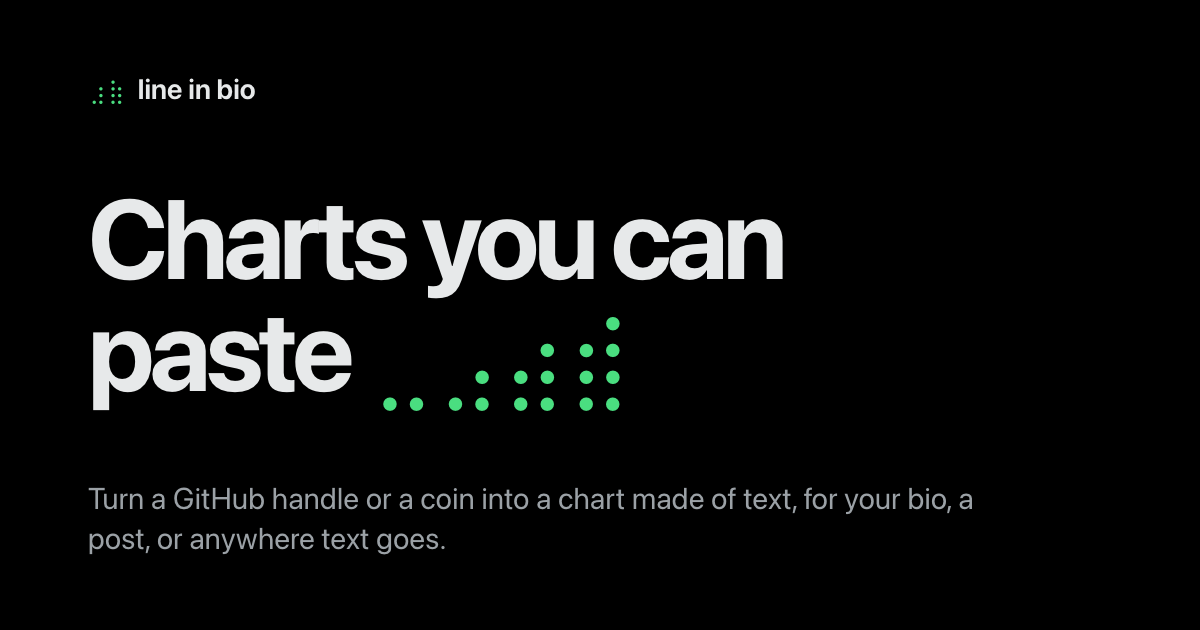
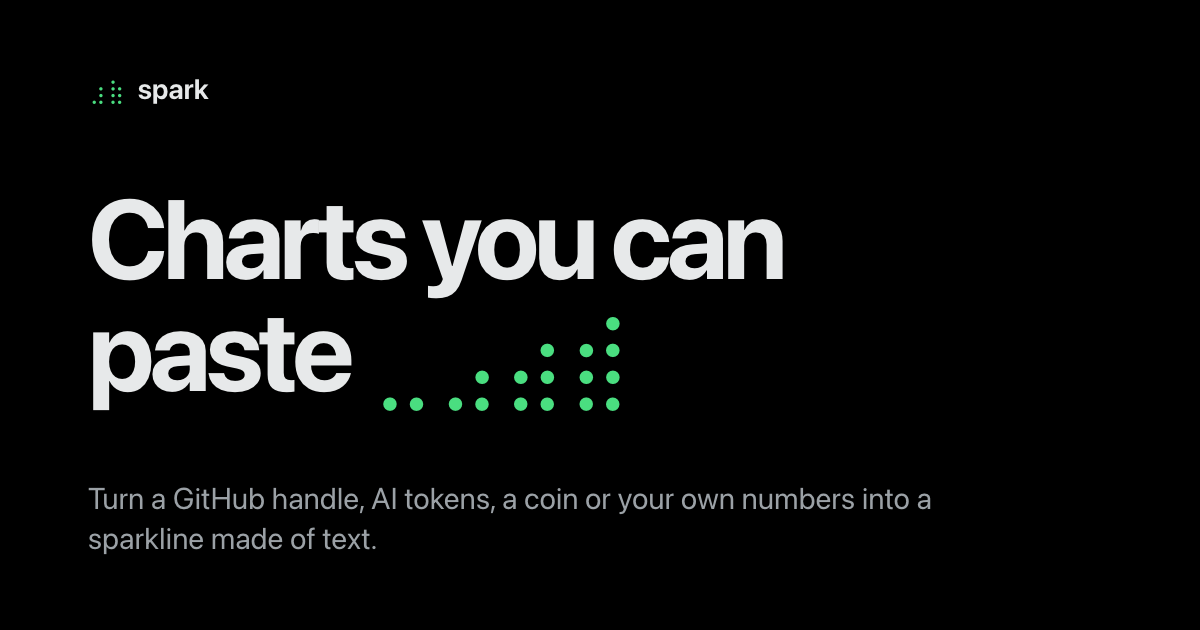
Rename the site to spark
It lives at spark.rhps.fun and makes sparklines; "line in bio" undersold it
once it covered posts, tokens and your own numbers. The repo keeps its name.

Claude-Session: https://claude.ai/code/session_01Aj4DdMT4MdrASdg4yyds1C

Changed region(s): [[0.3083, 0.754, 0.8325, 0.8143], [0.0617, 0.8444, 0.37, 0.8746], [0.0925, 0.1206, 0.2158, 0.181]]

diff --git a/public/index.html b/public/index.html
@@ -3,10 +3,10 @@
 <head>
 <meta charset="utf-8">
 <meta name="viewport" content="width=device-width, initial-scale=1, viewport-fit=cover">
-<title>line in bio · sparklines you can paste</title>
-<meta name="description" content="Turn a GitHub handle or a coin into a sparkline made of text, for your bio, a post, or anywhere text goes.">
-<meta property="og:title" content="line in bio">
-<meta property="og:description" content="Turn a GitHub handle or a coin into a sparkline made of text, for your X bio or a post.">
+<title>spark · sparklines you can paste</title>
+<meta name="description" content="Turn a GitHub handle, AI tokens, a coin or your own numbers into a sparkline made of text, for your bio, a post, or anywhere text goes.">
+<meta property="og:title" content="spark">
+<meta property="og:description" content="Turn a GitHub handle, AI tokens, a coin or your own numbers into a sparkline made of text.">
 <meta property="og:url" content="https://spark.rhps.fun/">
 <meta property="og:image" content="https://spark.rhps.fun/og.png">
 <meta name="twitter:card" content="summary_large_image">
@@ -237,7 +237,7 @@
 <body>
 <div class="wrap">
   <header class="top">
-    <a class="logo" href="/"><b aria-hidden="true">⣰⣷</b>line in bio</a>
+    <a class="logo" href="/"><b aria-hidden="true">⣰⣷</b>spark</a>
     <nav class="utils">
       <a class="ghost icon" href="https://github.com/gtmcknight/line-in-bio" aria-label="Source on GitHub"><svg viewBox="0 0 16 16" fill="currentColor" aria-hidden="true"><path d="M8 0C3.58 0 0 3.58 0 8c0 3.54 2.29 6.53 5.47 7.59.4.07.55-.17.55-.38 0-.19-.01-.82-.01-1.49-2.01.37-2.53-.49-2.69-.94-.09-.23-.48-.94-.82-1.13-.28-.15-.68-.52-.01-.53.63-.01 1.08.58 1.23.82.72 1.21 1.87.87 2.33.66.07-.52.28-.87.51-1.07-1.78-.2-3.64-.89-3.64-3.95 0-.87.31-1.59.82-2.15-.08-.2-.36-1.02.08-2.12 0 0 .67-.21 2.2.82.64-.18 1.32-.27 2-.27.68 0 1.36.09 2 .27 1.53-1.04 2.2-.82 2.2-.82.44 1.1.16 1.92.08 2.12.51.56.82 1.27.82 2.15 0 3.07-1.87 3.75-3.65 3.95.29.25.54.73.54 1.48 0 1.07-.01 1.93-.01 2.2 0 .21.15.46.55.38A8.013 8.013 0 0016 8c0-4.42-3.58-8-8-8z"/></svg></a>
       <button class="ghost icon" id="theme" type="button" aria-label="Day mode"></button>
@@ -247,7 +247,7 @@
   <main>
     <section class="hero">
       <h1>Charts you can paste<span class="spark" id="spark" aria-hidden="true"></span></h1>
-      <p class="lede">Turn a GitHub handle or a coin into a sparkline made of text, for your bio, a post, or anywhere text goes.</p>
+      <p class="lede">Turn a GitHub handle, AI tokens, a coin or your own numbers into a sparkline made of text, for your bio, a post, or anywhere text goes.</p>
     </section>
 
     <section class="tool" aria-label="Make a chart">

diff --git a/public/lib/chart.js b/public/lib/chart.js
@@ -1,4 +1,4 @@
-// line in bio: the chart. Pure functions, shared by the site and by bio.mjs, so both draw the same thing.
+// spark: the chart. Pure functions, shared by the site and by bio.mjs, so both draw the same thing.
 
 export const STYLES = ["bars", "line", "wave", "negative", "blocks"];
 export const WIDTH = { min: 6, max: 48, start: 24 }; // 48 is the widest that fits a desktop bio or post without wrapping

diff --git a/public/lib/sources.js b/public/lib/sources.js
@@ -1,4 +1,4 @@
-// line in bio: where the numbers come from. Shared by the site, its Worker, and bio.mjs.
+// spark: where the numbers come from. Shared by the site, its Worker, and bio.mjs.
 //
 // github() reads GitHub's public contribution graph. Browsers can't fetch it from another site,
 // so the site calls it through the Worker; bio.mjs calls it directly.

diff --git a/worker/src/index.js b/worker/src/index.js
@@ -1,4 +1,4 @@
-// line in bio: charts made of text, for a bio or a post.
+// spark: sparklines made of text, for a bio or a post.
 //
 // GET /api/github/<user>   a year of daily contributions from GitHub's public graph
 // GET /api/gt/<path>       GeckoTerminal's data (via CoinGecko with the CG_PRO_KEY secret), cached at the edge:

diff --git a/README.md b/README.md
@@ -1,4 +1,4 @@
-# line in bio
+# spark
 
 Sparklines made of text, for your X bio or a post: GitHub activity, AI token usage, a coin's price, or your own numbers. Make one at **[spark.rhps.fun](https://spark.rhps.fun)**, or let this repo redraw it in your bio twice a day.
 
